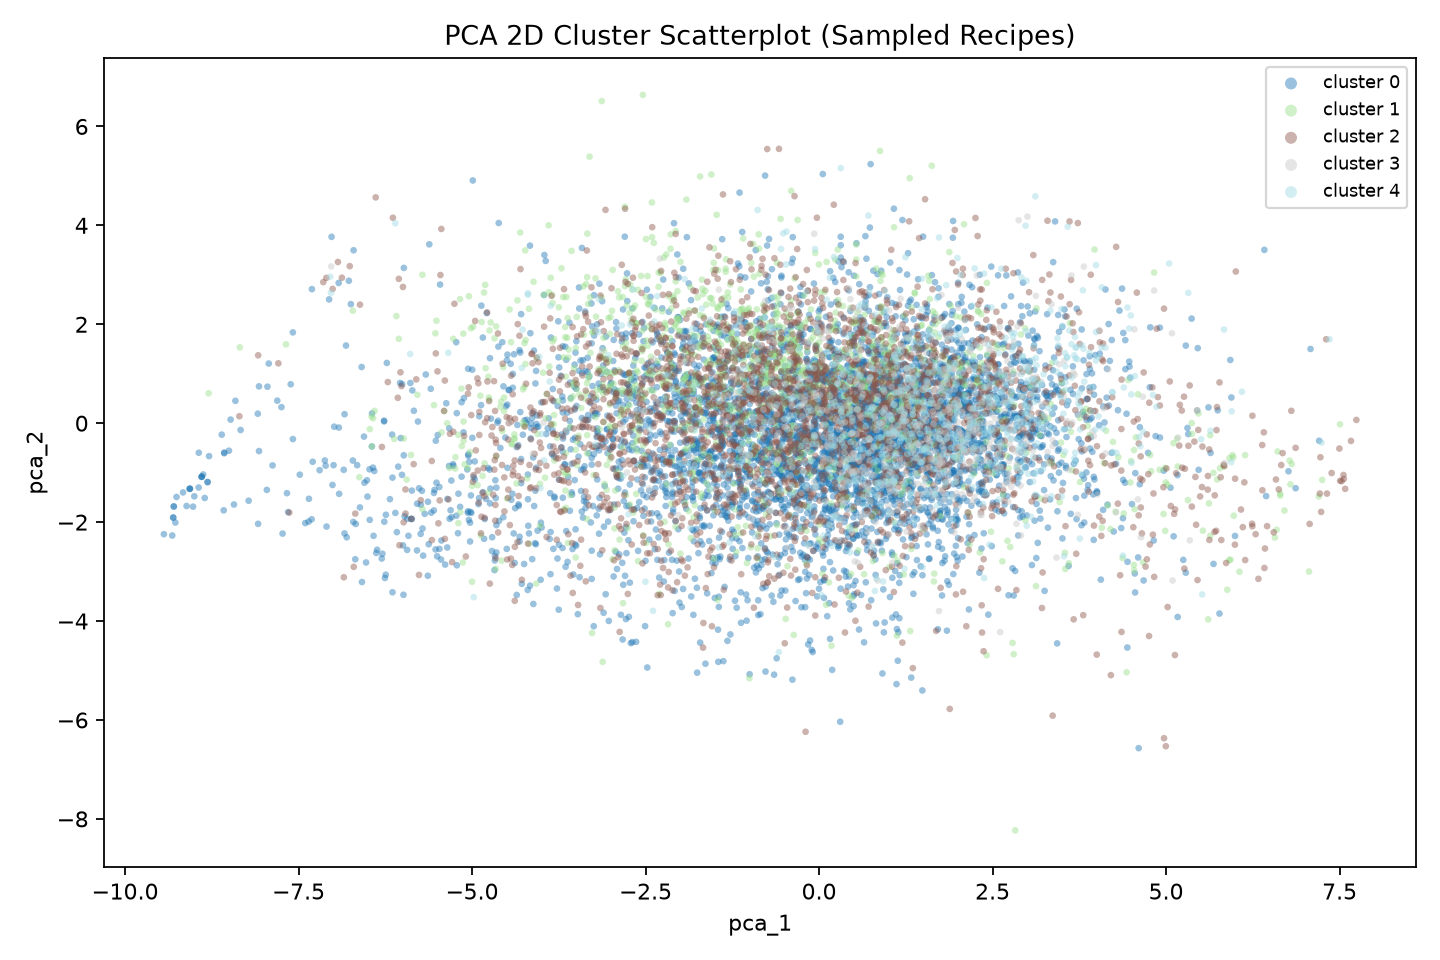
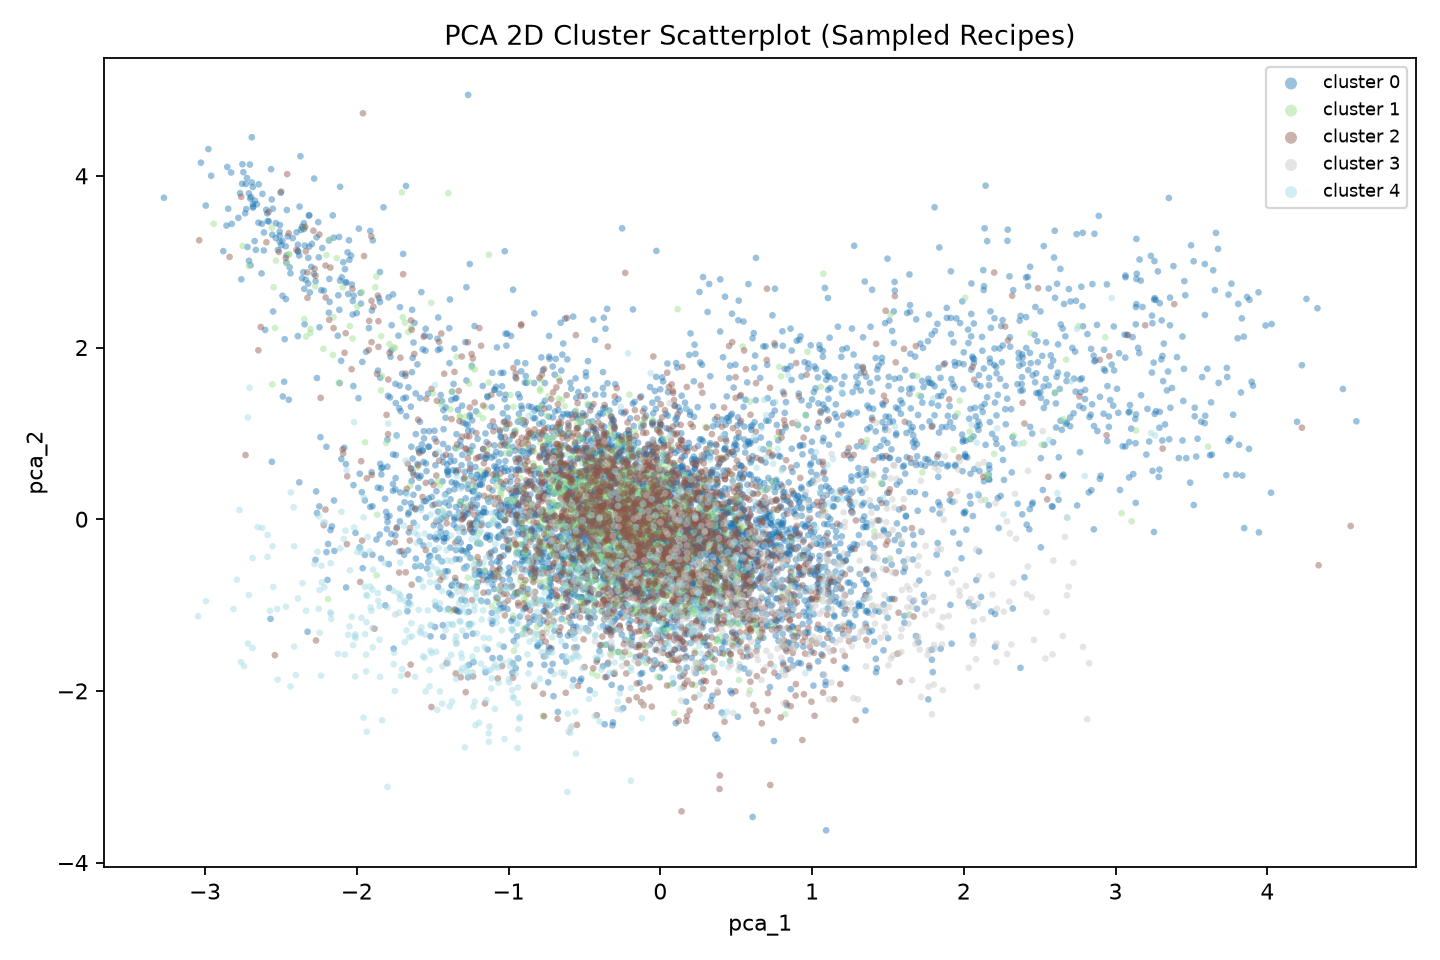
shuffle

diff --git a/src/app.py b/src/app.py
@@ -221,7 +221,7 @@ def render_graph_tab(context) -> None:
 
 def render_hybrid_tab(context) -> None:
     st.header("Personalized Hybrid Recommendations")
-    st.caption("Uses Collaborative SVD (60%) and content similarity (40%) to rank unseen recipes for an active AuthorId.")
+    st.caption("Uses Collaborative SVD (60%) and content similarity (40%) to rank unseen recipes for an active user.")
     load_model = st.button("Load hybrid model", type="primary")
     if load_model:
         try:
@@ -240,12 +240,23 @@ def render_hybrid_tab(context) -> None:
 
     state = st.session_state.get("hybrid_state") or cached_hybrid_state()
     users = active_user_ids(state)
-    use_random = st.checkbox("Use a reproducible random active user", value=True)
+    
+    # Initialize random user in session state if not present
+    if "random_author_id" not in st.session_state:
+        st.session_state["random_author_id"] = int(np.random.default_rng(42).choice(users))
+        
+    use_random = st.checkbox("Use a random active user", value=True)
     if use_random:
-        author_id = int(np.random.default_rng(42).choice(users))
+        # Button to choose another random user
+        if st.button("Shuffle random user"):
+            # Use non-seeded generator to get a new user
+            st.session_state["random_author_id"] = int(np.random.default_rng().choice(users))
+            
+        author_id = st.session_state["random_author_id"]
         st.caption(f"Selected AuthorId: {author_id}")
     else:
         author_id = int(st.number_input("AuthorId", min_value=min(users), max_value=max(users), step=1))
+        
     if author_id not in set(users):
         st.warning("This AuthorId is not an active user in the trained 5-core dataset.")
         return

diff --git a/reports/Week10_recommendation_explanation.md b/reports/Week10_recommendation_explanation.md
@@ -131,7 +131,7 @@ These are cases where a highly rated test recipe (Rating 4.0 or 5.0) was success
             - Collaborative-SVD Rank: `15` / 101
             - **Hybrid Rank**: `1` / 101 (Successfully Recommended in #1 spot!)
             - **Scores**:
-            - CF Raw Score: `4.7778` | Content Similarity: `0.4107` | Blended Hybrid Score: `0.8599`
+            - CF Raw Score: `4.7778` | Content Similarity: `0.4107` | Blended Hybrid Score: `0.8598`
             - **Culinary / Behavior Diagnosis**: Success driven primarily by content semantics (content rank #1, similarity 0.4107). 'Ghostly Green Brew' is a Halloween-themed drink made from lime sherbet and ginger ale — a category (festive, cold beverages) very consistent with the content keywords in this user's taste profile. The relatively weaker CF signal (rank #15) makes sense: themed drinks are a niche interaction category in the dataset, so fewer behavioral neighbors have rated exactly this recipe. However, its ingredient and keyword representation in SVD space strongly mirrors the user's historical preferences, confirming that content-based embeddings capture culinary occasion context effectively.
             
             #### Case 3: Kittencal's Spinach &amp; Four-Cheese Manicotti (Vegetarian)
